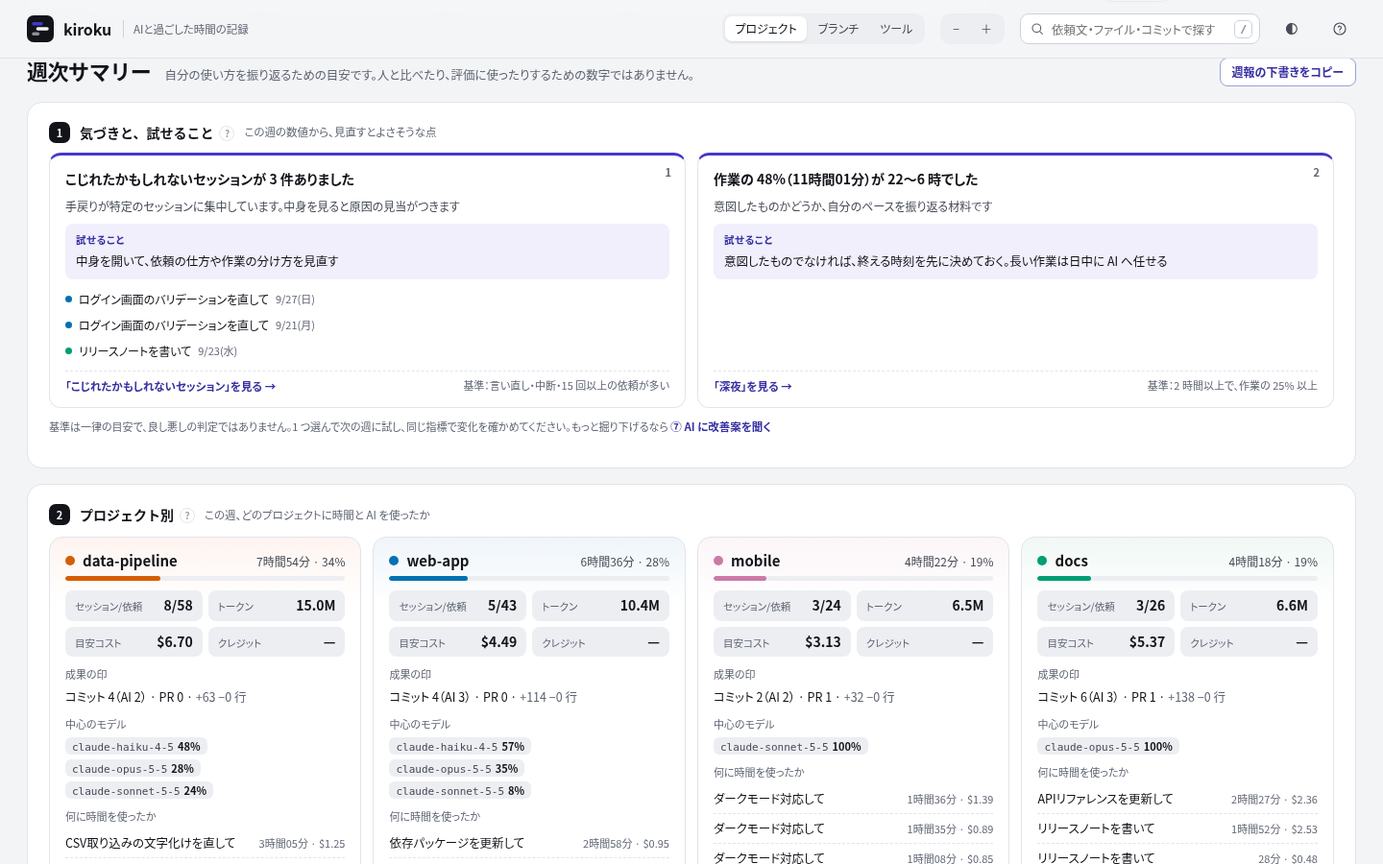
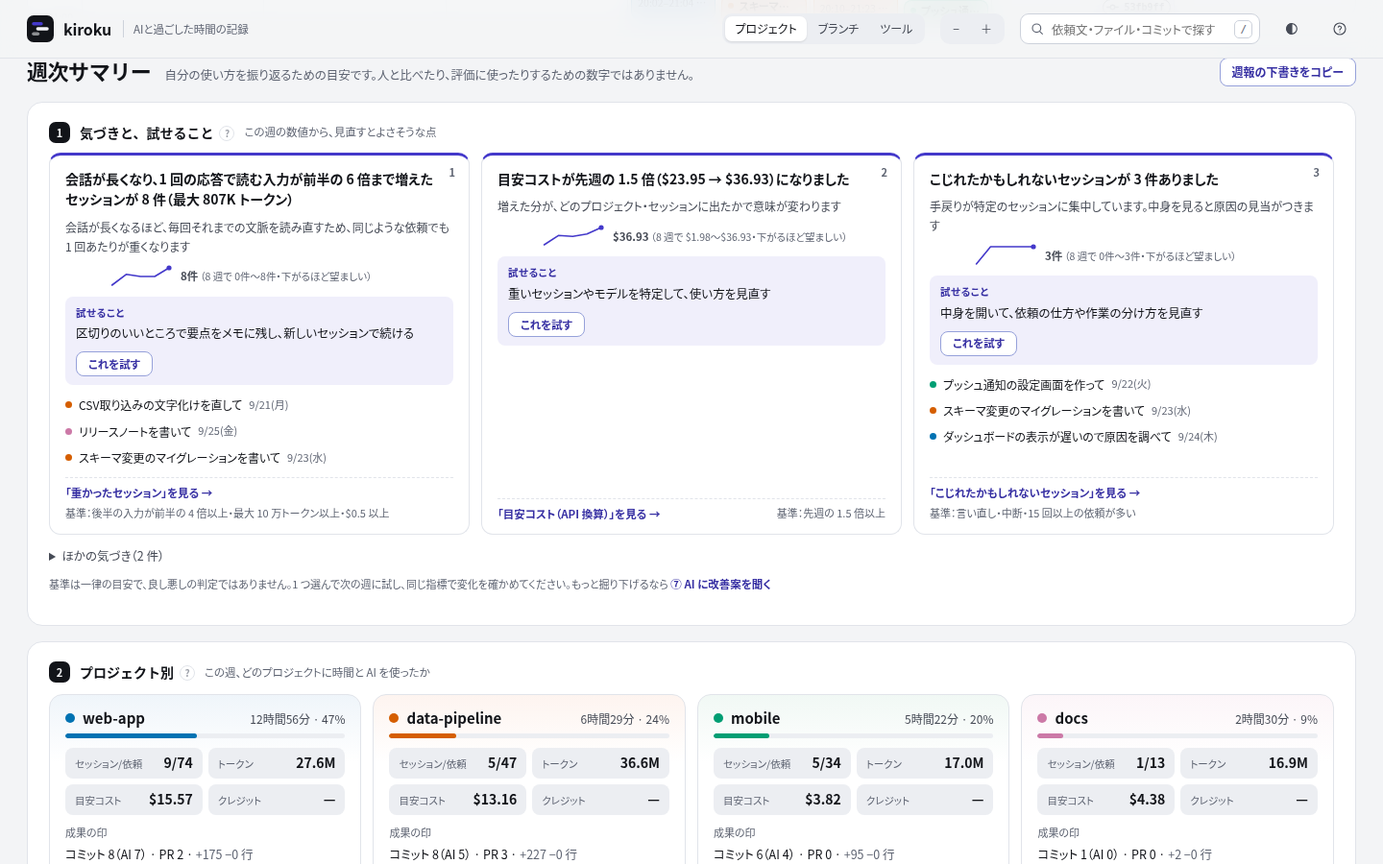
改善のループを回せるようにする：確かな記録に基づく気づき・8 週の推移・試したことの答え合わせ (#41)
* 改善のループを回せるようにする：確かな記録に基づく気づき・8 週の推移・試したことの答え合わせ

- セッションごとに、1 回の応答で読んだ入力（文脈）の前半・後半・最大を集計する（core/context.go）
- 気づきに「長くなった会話」「軽い作業での高いモデル」を追加（推定ではなく、記録されたトークンとモデルから判定）
- 気づきのカードに、その指標の 8 週（8 か月）の推移を表示
- 「これを試す」で 1 つ選ぶと、その期間の値を記録し、次の期間以降に「試す前 → 今」と変化の方向を表示（ブラウザに保存）
- 改善案プロンプトに、試していることとその推移を含める
- ダミーデータに、会話が長くなるセッションを混ぜる
- README・ガイド・スクリーンショットを更新

Claude-Session: https://claude.ai/code/session_01WXnCm54bK3Mj4QdxNoNc9j

* 気づきのカードを読みやすくし、画面を変えるときの確認項目を開発ドキュメントに加える

- 「長くなった会話」の見出しを、結論が先に来る短い文に
- 推移に、今の値と 8 週の範囲を文字でも表示（タッチ端末でも読める）。読み上げ用の要約も付ける
- 試している最中に別の気づきを選ぶときは「こちらに切り替える」と表示
- 1000px 以下では検索欄のヒントを短く（入力欄が狭いため）
- docs/development.md に「画面を変えるとき」（情報設計・言葉・UI・UX・ドキュメントの確認）を追加

Claude-Session: https://claude.ai/code/session_01WXnCm54bK3Mj4QdxNoNc9j

---------

diff --git a/internal/web/template.html b/internal/web/template.html
@@ -178,6 +178,27 @@ kbd{font:11px/1 var(--mono);padding:3px 5px;border-radius:5px;border:1px solid v
 .flink{color:var(--acc-ink);font-size:11.5px;font-weight:600}
 .flink:hover{text-decoration:underline}
 .fmore{margin-top:12px}
+.spark{display:inline-flex;align-items:center;gap:8px;color:var(--ink-3)}
+.spark svg{flex:none;overflow:visible}
+.spark polyline{fill:none;stroke:var(--acc);stroke-width:1.6;stroke-linejoin:round;stroke-linecap:round}
+.spark circle{fill:var(--acc)}
+.spark small{font-size:10.5px;line-height:1.4}
+.spark small b{color:var(--ink-2);font-size:11.5px;font-variant-numeric:tabular-nums;margin-right:2px}
+.fcard .act{position:relative}
+.fcard .ftry{align-self:flex-start;margin-top:6px;height:26px;font-size:11.5px;color:var(--acc-ink);border-color:color-mix(in oklab,var(--acc) 35%,var(--rule-2));font-weight:600}
+.fcard .trying{font-style:normal;font-size:11px;font-weight:700;color:var(--acc-ink);margin-top:4px}
+.trybar{display:flex;flex-direction:column;gap:8px;margin:10px 0 4px;padding:12px 16px;border-radius:12px;border:1px solid color-mix(in oklab,var(--acc) 35%,var(--rule));background:var(--acc-soft)}
+.trybar .th{display:flex;flex-wrap:wrap;gap:4px 10px;align-items:baseline}
+.trybar .th>b{font-size:10.5px;letter-spacing:.06em;color:var(--on-acc);background:var(--acc);padding:2px 8px;border-radius:999px}
+.trybar .tt{font-weight:650;font-size:13.5px}
+.trybar .th .muted{font-size:11.5px}
+.trybar .tb{font-size:12.5px;color:var(--ink-2);display:flex;flex-wrap:wrap;gap:4px 10px;align-items:baseline}
+.trybar .tb b{color:var(--ink);font-variant-numeric:tabular-nums}
+.trybar .tf{display:flex;justify-content:space-between;align-items:center;gap:10px;flex-wrap:wrap}
+.vd{font-size:11px;font-weight:700;padding:1px 8px;border-radius:999px}
+.vd.good{color:var(--c2);background:color-mix(in oklab,var(--c2) 14%,transparent)}
+.vd.bad{color:var(--warn);background:color-mix(in oklab,var(--warn) 12%,transparent)}
+.vd.same{color:var(--ink-2);background:var(--surface-2)}
 .fmore summary{cursor:pointer;font-size:12.5px;color:var(--ink-2)}
 .fok{font-size:13px;color:var(--ink-2);margin-top:8px}
 .sact{display:flex;flex-direction:column;gap:6px;margin-top:14px;padding:12px 14px;border-radius:10px;background:var(--acc-soft)}
@@ -816,6 +837,9 @@ function summary(){
     t.scrollIntoView({behavior: matchMedia("(prefers-reduced-motion: reduce)").matches ? "auto" : "smooth", block: "center"});
     if (t.classList.contains("hb") && t.getAttribute("aria-expanded") !== "true") t.click(); });
   const more = R.querySelector("#pmore"); if (more) more.onclick = () => { st.allProj = !st.allProj; summary(); };
+  R.querySelectorAll("[data-try]").forEach(b => b.onclick = () => { const f = findList(w, pw, unit).find(x => x.k === b.dataset.try), p = periodBack(0); if (!f) return;
+    store.set("try", {k: f.k, act: f.act, mode: st.mode, start: p.key, label: p.label, base: metricAt(f.k, p)}); toast("次の期間に、同じ指標で比べます"); summary(); });
+  const ts = R.querySelector("#trystop"); if (ts) ts.onclick = () => { store.set("try", null); summary(); };
   const ms = R.querySelector("#moreS"); if (ms) ms.ontoggle = () => { st.moreS = ms.open; };
   const rc = R.querySelector("#rptcopy"); if (rc) rc.onclick = () => copy(reportText(w, M));
   const ac = R.querySelector("#askcopy"); if (ac) ac.onclick = () => copy($("#askpre").textContent);
@@ -861,6 +885,8 @@ const HELP = {
   weekend: {n:"週末", d:"土日の作業時間", c:"週末にどれだけ作業していたか", x:"働きすぎかどうかの判定", a:"自分のペースの振り返りに使う"},
   fix: {n:"言い直し・中断のあった依頼", d:"依頼文の表現（「違う」「やり直して」など）と中断から推定した割合", c:"最初の依頼が意図どおりに伝わらなかった割合の目安", x:"推定のため誤判定がある。原因も分からない", a:"高ければ、依頼文に前提・制約・完了条件を書き足す"},
   limits: {n:"利用上限に当たった回数", d:"Claude Code の履歴に残った、利用上限（使用量の上限・レート制限）のエラーの回数と時刻。1 分以内に続いたものは 1 回", c:"どの時間帯・どの作業で上限に当たり、作業が止まったか", x:"上限までの残り。ほかのエージェントや、ブラウザ・アプリでの利用分", a:"重い作業を時間帯で分ける、軽いモデルに振り分ける、長い会話は区切って新しく始める"},
+  longctx: {n:"長くなった会話", d:"1 回の応答で読んだ入力（新しい入力とキャッシュの読み書き）が、会話の後半 4 分の 1 で前半 4 分の 1 の 4 倍以上になり、最大 10 万トークン以上になったセッション（目安コスト $0.5 以上。トークンを記録するエージェントのみ）", c:"会話を続けたことで、1 回あたりの応答が重くなったセッション", x:"会話を続けたほうがよかったかどうか（前の文脈が必要な作業もある）", a:"区切りのいいところで要点をメモに残し、新しいセッションで続ける"},
+  modelfit: {n:"軽い作業での高いモデル", d:"主に Opus 系のモデルを使い、依頼 3 件以下でファイルを編集しなかった、目安コスト $0.3 以上のセッションの合計", c:"高いモデルを使った短い作業にかかった量", x:"そのモデルが必要だったかどうか（難しい調査や設計の相談もある）", a:"調べものや相談は、まず軽いモデルで試し、足りなければ切り替える"},
   friction: {n:"こじれたかもしれないセッション", d:"言い直し・中断・15 回以上の依頼が多いセッション", c:"手戻りが集中したセッション", x:"こじれた原因", a:"中身を開いて、依頼の仕方や作業の分け方を見直す"},
   share: {n:"プロジェクトの配分", d:"プロジェクトごとの作業時間の割合", c:"時間の配分", x:"配分の妥当さ", a:"想定と違えば、優先順位を見直す"},
   rhythm: {n:"日ごと・週ごとのリズム", d:"週表示では日ごと、月表示では週ごとの作業時間（うち深夜）", c:"作業量の波と偏り", x:"波の原因", a:"特定の日に偏っていれば、作業の割り振りを見直す"},
@@ -906,6 +932,7 @@ function askPrompt(w, pw, M){
     "- 指標の定義はエージェントごとに異なります。エージェント同士を直接比較しないでください",
     "- 数値はすべて履歴から推定した目安です。データから言えないことは、推測であると明記してください",
     "- 各指標の定義と、そこから言えること・言えないことは末尾の「指標の読み方」を参照してください",
+    ...(() => { const T = store.get("try", null); return T && HELP[T.k] ? ["", "# いま試していること", `- ${T.act}（${T.label}から。指標: ${HELP[T.k].n}、試す前 ${fmtM(T.k, T.base)}、この${unit} ${fmtM(T.k, metricAt(T.k, periodBack(0)))}）`, `- 推移: ${(() => { const r = []; for (let i = 7; i >= 0; i--){ const p = periodBack(i); r.push(`${p.label} ${fmtM(T.k, metricAt(T.k, p))}`); } return r.join("、"); })()}`] : []; })(),
     "", "# kiroku が基準で拾った気づき（判定ではなく候補）",
     ...(() => { const F = findList(w, pw, unit); return F.length ? F.map(f => `- ${f.see.replace(/<[^>]+>/g, "")}（基準: ${f.rule}）`) : ["- 基準を超えた指標はありませんでした"]; })(),
     "", "# 全体",
@@ -971,6 +998,67 @@ function askPrompt(w, pw, M){
 }
 /* 期間 [ws, we) に利用上限に当たった時刻と、そのセッション */
 function limitHits(ws, we){ const H = []; DATA.forEach(s => (s.limits || []).forEach(t => { if (t >= ws && t < we) H.push({t, s}); })); return H.sort((a,b) => a.t - b.t); }
+/* 気づきの判定に使う部品（期間 [ws, we) を渡す。推移の計算でも使う） */
+const inP = (s, ws, we) => s.segs.some(([a,b]) => b > ws && a < we);
+function idleOf(ws, we){ // 目安コストが大きいのにコミットも PR もないセッション（成果の印を記録できる Claude Code のみ）
+  const xs = DATA.filter(s => s.cost >= 1 && /claude/i.test(s.source) && !(s.outputs && (s.outputs.commits || s.outputs.prs)) && inP(s, ws, we)).sort((a,b) => b.cost - a.cost);
+  return {xs, c: xs.reduce((t,s) => t + s.cost, 0)}; }
+function longCtxOf(ws, we){ // 会話が長くなり、1 回の応答で読む入力が大きく増えたセッション
+  return DATA.filter(s => inP(s, ws, we) && s.ctx && s.ctx.length === 3 && s.ctx[0] > 0 && s.ctx[1] >= s.ctx[0] * 4 && s.ctx[2] >= 1e5 && s.cost >= 0.5).sort((a,b) => b.cost - a.cost); }
+const mainModel = s => ((s.models || []).slice().sort((a,b) => b[1] - a[1])[0] || [""])[0];
+function lightOf(ws, we){ // 編集のない短いセッションで、高いモデル（Opus 系）を使ったもの
+  const xs = DATA.filter(s => inP(s, ws, we) && /opus/i.test(mainModel(s)) && s.nPrompts <= 3 && !s.nFiles && s.cost >= 0.3).sort((a,b) => b.cost - a.cost);
+  return {xs, c: xs.reduce((t,s) => t + s.cost, 0)}; }
+/* 指標の値（推移と、試していることの答え合わせ用）。low: 小さいほうが望ましい方向 */
+const pctOf = (a, b) => b ? Math.round(a * 100 / b) : null;
+const MET = {
+  limits: {f: (w, ws, we) => limitHits(ws, we).length, low: true, u: "回"},
+  longctx: {f: (w, ws, we) => longCtxOf(ws, we).length, low: true, u: "件"},
+  heavy: {f: (w, ws, we) => w.usage && w.usage.cost >= 0.01 ? pctOf(idleOf(ws, we).c, w.usage.cost) : null, low: true, u: "%"},
+  cost: {f: w => w.usage ? w.usage.cost : null, low: true, fmt: v => usd(v)},
+  costPerCommit: {f: w => w.costPerCommit, low: true, fmt: v => usd(v)},
+  modelfit: {f: (w, ws, we) => w.usage && w.usage.cost >= 0.01 ? pctOf(lightOf(ws, we).c, w.usage.cost) : null, low: true, u: "%"},
+  fix: {f: w => w.fixRate, low: true, u: "%"},
+  friction: {f: w => w.friction.length, low: true, u: "件"},
+  cache: {f: w => w.usage && w.usage.cacheHit != null ? Math.round(w.usage.cacheHit * 100) : null, low: false, u: "%"},
+  outSessions: {f: w => pctOf(w.outSessions, w.sessions), low: false, u: "%"},
+  switches: {f: w => w.switchesAvg, low: true, u: "回"},
+  focus: {f: w => w.focus.length, low: false, u: "回"},
+  wait: {f: w => w.waitP90 != null ? Math.round(w.waitP90 / 60) : null, low: true, u: "分"},
+  night: {f: w => pctOf(w.night, w.active), low: true, u: "%"},
+};
+const fmtM = (k, v) => v == null ? "—" : MET[k].fmt ? MET[k].fmt(v) : `${Math.round(v * 10) / 10}${MET[k].u || ""}`;
+function periodBack(i){ // 表示中の期間から i 個前の期間
+  if (st.mode === "month"){ const a = new Date(st.month.getFullYear(), st.month.getMonth() - i, 1), b = new Date(a.getFullYear(), a.getMonth() + 1, 1);
+    return {S: MONTHS[mkey(a)], ws: a.getTime()/1000, we: b.getTime()/1000, label: `${a.getFullYear()}/${a.getMonth()+1}`, key: mkey(a)}; }
+  const a = addDays(st.week, -7 * i);
+  return {S: WEEKS[key(a)], ws: a.getTime()/1000, we: addDays(a, 7).getTime()/1000, label: `${a.getMonth()+1}/${a.getDate()} の週`, key: key(a)};
+}
+function metricAt(k, p){ if (!MET[k] || !p.S) return null; const v = MET[k].f(p.S, p.ws, p.we); return v == null || Number.isNaN(v) ? null : v; }
+function spark(k){ // 8 期間の推移（記録のない期間は飛ばす）
+  if (!MET[k]) return "";
+  const pts = []; for (let i = 7; i >= 0; i--){ const p = periodBack(i); pts.push({v: metricAt(k, p), l: p.label}); }
+  const vs = pts.filter(p => p.v != null).map(p => p.v); if (vs.length < 2) return "";
+  const lo = Math.min(...vs), hi = Math.max(...vs), W = 112, H = 26, x = i => 4 + i * (W - 8) / 7, y = v => hi === lo ? H / 2 : H - 4 - (v - lo) / (hi - lo) * (H - 8);
+  const line = pts.map((p, i) => p.v == null ? null : `${x(i).toFixed(1)},${y(p.v).toFixed(1)}`).filter(Boolean).join(" ");
+  const txt = `${st.mode === "month" ? "8 か月" : "8 週"}の推移：${pts.map(p => `${p.l} ${fmtM(k, p.v)}`).join("、")}`;
+  return `<span class="spark" title="${esc(pts.map(p => `${p.l}: ${fmtM(k, p.v)}`).join("\n"))}"><span class="sr">${esc(txt)}</span><svg viewBox="0 0 ${W} ${H}" width="${W}" height="${H}" aria-hidden="true"><polyline points="${line}"/>${pts[7].v != null ? `<circle cx="${x(7)}" cy="${y(pts[7].v)}" r="2.6"/>` : ""}</svg><small aria-hidden="true"><b>${fmtM(k, pts[7].v)}</b>（${st.mode === "month" ? "8 か月" : "8 週"}で ${fmtM(k, lo)}〜${fmtM(k, hi)}・${MET[k].low ? "下がるほど" : "上がるほど"}望ましい）</small></span>`;
+}
+/* 試していること：気づきから 1 つ選び、その期間の値と、表示中の期間の値を比べる（ブラウザに保存） */
+function tryBar(unit){
+  const T = store.get("try", null); if (!T || !MET[T.k] || !HELP[T.k]) return "";
+  const cur = periodBack(0), name = HELP[T.k].n, head = `<b>試していること</b><span class="tt">${esc(T.act)}</span><span class="muted">（${esc(name)}・${esc(T.label)}から）</span>`;
+  let body;
+  if (T.mode !== st.mode) body = `${T.mode === "month" ? "月" : "週"}表示に切り替えると、試す前と比べられます。`;
+  else if (cur.key === T.start) body = `ここから試し始めました（${fmtM(T.k, T.base)}）。次の${unit}以降を開くと、同じ指標で比べます。`;
+  else if (cur.key < T.start) body = `試す前の期間を表示しています。`;
+  else { const now = metricAt(T.k, cur);
+    if (now == null || T.base == null) body = `この${unit}の「${esc(name)}」は記録がありません。`;
+    else { const d = now - T.base, rel = T.base ? Math.abs(d) / Math.abs(T.base) : (d ? 1 : 0), good = MET[T.k].low ? d < 0 : d > 0;
+      const v = rel < 0.1 ? ["same", "ほぼ変わらず"] : good ? ["good", "望ましい方向に変化"] : ["bad", "望ましくない方向に変化"];
+      body = `試す前 <b>${fmtM(T.k, T.base)}</b> → この${unit} <b>${fmtM(T.k, now)}</b> <span class="vd ${v[0]}">${v[1]}</span><span class="muted">1 回の差は揺れることがあります。推移で確かめてください。</span>`; } }
+  return `<div class="trybar"><div class="th">${head}</div><div class="tb">${body}</div><div class="tf">${spark(T.k)}<button class="pill" id="trystop">やめる</button></div></div>`;
+}
 /* 気づきと、試せること：指標が決まった基準を超えたものを拾う（AI は使わない。判定ではなく、確かめる候補） */
 function findList(w, pw, unit){
   const F = [], u = w.usage || {}, o = w.outputs || {}, {ws, we} = period();
@@ -982,9 +1070,13 @@ function findList(w, pw, unit){
     add("fix", w.fixRate, `依頼の ${w.fixRate}% で、言い直しや中断がありました`, "最初の依頼が伝わらないと、やり直す分だけ時間とトークンを使います", "依頼 10 件以上で 20% 以上", w.friction.map(f => f.id));
   else if (w.friction.length)
     add("friction", 18, `こじれたかもしれないセッションが ${w.friction.length} 件ありました`, "手戻りが特定のセッションに集中しています。中身を見ると原因の見当がつきます", "言い直し・中断・15 回以上の依頼が多い", w.friction.map(f => f.id));
-  // 目安コストが大きいのにコミットも PR もないセッション（成果の印を記録できる Claude Code のみ）
-  const idle = DATA.filter(s => s.cost >= 1 && /claude/i.test(s.source) && !(s.outputs && (s.outputs.commits || s.outputs.prs)) && s.segs.some(([a,b]) => b > ws && a < we)).sort((a,b) => b.cost - a.cost);
-  const idleC = idle.reduce((t,s) => t + s.cost, 0);
+  const LC = longCtxOf(ws, we);
+  if (LC.length)
+    add("longctx", 34, `会話が長くなり、1 回の応答で読む入力が前半の ${Math.round(Math.max(...LC.map(s => s.ctx[1] / s.ctx[0])))} 倍まで増えたセッションが ${LC.length} 件（最大 ${tok(Math.max(...LC.map(s => s.ctx[2])))} トークン）`, "会話が長くなるほど、毎回それまでの文脈を読み直すため、同じような依頼でも 1 回あたりが重くなります", "後半の入力が前半の 4 倍以上・最大 10 万トークン以上・$0.5 以上", LC.slice(0,3).map(s => s.id));
+  const LT = lightOf(ws, we);
+  if (u.cost >= 2 && LT.c >= Math.max(1, u.cost * 0.1))
+    add("modelfit", 24, `編集のない短いセッションで、Opus 系のモデルに ${usd(LT.c)}（目安コストの ${Math.round(LT.c*100/u.cost)}%）を使っていました`, "調べものや相談なら、軽いモデルでも足りることがあります", "依頼 3 件以下・編集なし・$0.3 以上の合計が、全体（$2 以上）の 10% 以上かつ $1 以上", LT.xs.slice(0,3).map(s => s.id));
+  const {xs: idle, c: idleC} = idleOf(ws, we);
   if (u.cost >= 2 && idleC >= u.cost * 0.4)
     add("heavy", 30 + Math.round(idleC*50/u.cost), `目安コストの ${Math.round(idleC*100/u.cost)}%（${usd(idleC)}）が、コミットも PR もないセッションでした`, "調査や相談なら問題ありません。途中で止まったのなら、理由を確かめる価値があります", "$1 以上のセッションの合計が、全体（$2 以上）の 40% 以上", idle.slice(0,3).map(s => s.id));
   if (pw && pw.usage && pw.usage.cost >= 1 && u.cost >= pw.usage.cost * 1.5)
@@ -1005,17 +1097,20 @@ function findList(w, pw, unit){
     add("night", 8, `作業の ${Math.round(w.night*100/w.active)}%（${dur(w.night)}）が 22〜6 時でした`, "意図したものかどうか、自分のペースを振り返る材料です", "2 時間以上で、作業の 25% 以上", null, "意図したものでなければ、終える時刻を先に決めておく。長い作業は日中に AI へ任せる");
   return F.sort((a,b) => b.score - a.score);
 }
+const GOTO = {longctx: "heavy", modelfit: "models"}; // 専用の指標がない気づきは、関係する指標へ
 function findPanel(w, pw, unit, ph){
-  const F = findList(w, pw, unit);
+  const F = findList(w, pw, unit), T = store.get("try", null);
   const ses = ids => ids.map(id => { const s = DATA.find(x => x.id === id); return s ? `<button class="fses" data-id="${esc(id)}" style="--c:${colorOf(keyOf(s))}"><i></i><span>${esc(s.title)}</span><small>${md(s.start)}</small></button>` : ""; }).join("");
   const card = (f, i) => `<article class="fcard">
       <div class="fno">${i+1}</div>
       <p class="see">${f.see}</p><p class="why">${esc(f.why)}</p>
-      <div class="act"><b>試せること</b><span>${esc(f.act)}</span></div>
+      ${spark(f.k)}
+      <div class="act"><b>試せること</b><span>${esc(f.act)}</span>${MET[f.k] ? (T && T.k === f.k ? '<em class="trying">試しています</em>' : `<button class="pill ftry" data-try="${f.k}"${T ? ` title="いま試している「${esc(T.act)}」をやめて、こちらに切り替えます"` : ""}>${T ? "こちらに切り替える" : "これを試す"}</button>`) : ""}</div>
       ${f.ids.length ? `<div class="fss">${ses(f.ids)}</div>` : ""}
-      <div class="ff"><button class="flink" data-goto="${f.k}">「${esc(HELP[f.k].n)}」を見る →</button><span title="この気づきを出す基準">基準：${esc(f.rule)}</span></div></article>`;
+      <div class="ff"><button class="flink" data-goto="${GOTO[f.k] || f.k}">「${esc(HELP[GOTO[f.k] || f.k].n)}」を見る →</button><span title="この気づきを出す基準">基準：${esc(f.rule)}</span></div></article>`;
   const top = F.slice(0, 3), rest = F.slice(3);
   return `<section class="panel fd">${ph(1, "気づきと、試せること", `この${unit}の数値から、見直すとよさそうな点`, "findings")}
+    ${tryBar(unit)}
     ${F.length ? `<div class="fgrid">${top.map(card).join("")}</div>
       ${rest.length ? `<details class="fmore"><summary>ほかの気づき（${rest.length} 件）</summary><div class="fgrid">${rest.map((f,i) => card(f, i+3)).join("")}</div></details>` : ""}`
       : `<p class="fok">決めた基準を超えた指標はありませんでした。下のプロジェクト別やコストと成果で、先${unit}との違いを確かめられます。</p>`}
@@ -1358,7 +1453,7 @@ function scrollToWork(){ // その週の作業が始まるころの少し前へ
 // 今週に記録がなければ、いちばん新しい記録の週から開く
 if (DATA.length && !WEEKS[key(st.week)]) st.week = mondayOf(new Date(DATA[DATA.length-1].end*1000));
 if (DATA.length && !MONTHS[mkey(st.month)]) st.month = monthOf(new Date(DATA[DATA.length-1].end*1000));
-const mq = matchMedia("(max-width:820px)"), ph = () => $("#q").placeholder = mq.matches ? "検索" : "依頼文・ファイル・コミットで探す";
+const mq = matchMedia("(max-width:1000px)"), ph = () => $("#q").placeholder = mq.matches ? "検索" : "依頼文・ファイル・コミットで探す"; // 狭い画面では入力欄も狭いので短く
 mq.addEventListener("change", () => { ph(); render(); }); ph();
 applyTheme(); render(); scrollToWork();
 

diff --git a/internal/core/session.go b/internal/core/session.go
@@ -217,6 +217,7 @@ type Session struct {
 	Waits        [][2]float64  `json:"waits"`
 	Interrupts   int           `json:"interrupts"`
 	Limits       []float64     `json:"limits"` // 利用上限に当たった時刻
+	Ctx          []float64     `json:"ctx"`    // 1 回の応答で読んだ入力（文脈）の大きさ [前半, 後半, 最大]（context.go）
 	Corrections  int           `json:"corrections"`
 	Models       [][2]any      `json:"models"`
 	Usage        UsageTotal    `json:"usage"`
@@ -310,6 +311,7 @@ func (s *Builder) Finish(gapMin int) *Session {
 		prompts = prompts[:50]
 	}
 	main := s.Usage.Events()
+	ctx := ContextGrowth(main)
 	if len(s.Reported) > 0 {
 		groups := [][]Event{main}
 		for _, a := range s.Subagents {
@@ -357,7 +359,7 @@ func (s *Builder) Finish(gapMin int) *Session {
 		ID: s.ID, Source: s.Source, Project: name, ProjectPath: project, Branch: strOrNil(s.Branch), Title: title,
 		Start: times[0], End: times[len(times)-1], Events: len(times), Segs: Segments(times, float64(gapMin*60)),
 		Prompts: prompts, NPrompts: len(s.Prompts), Tools: tools, Files: files, NFiles: nFiles, Resume: strOrNil(s.Resume),
-		Waits: s.Waits(), Interrupts: s.Interrupts, Limits: limits(s.Limits), Corrections: s.Corrections(), Models: models,
+		Waits: s.Waits(), Interrupts: s.Interrupts, Limits: limits(s.Limits), Ctx: ctx, Corrections: s.Corrections(), Models: models,
 		Usage: mainSum, Subagents: subs, Credits: Round(credits, 3), Cost: Round(cost, 4),
 		UEv: uev, CEv: s.Credits, OEv: s.Outputs, Outputs: outs, Fix: s.FixTS, CostReported: len(s.Reported) > 0, File: s.File, PRs: prs,
 		Native: AggregateNative(s.Source, s.Measures), Meas: s.Measures,

diff --git a/tools/screenshots/gen.py b/tools/screenshots/gen.py
@@ -32,13 +32,14 @@ for d in range(35, -1, -1):
         model = random.choice(models)
         t = start; lines = []
         nprompt = random.randint(2, 14)
+        grow = random.choice([0, 0, 1, 4]); step = 0  # 会話が長くなるほど文脈が増えるセッションを混ぜる
         for i in range(nprompt):
             txt = random.choice(projects[p]) if i == 0 else (random.choice(retry) if random.random()<0.08 else random.choice(follow))
             lines.append({"type":"user","timestamp":t.isoformat(),"cwd":cwd,"gitBranch":br,"sessionId":sid,"message":{"role":"user","content":txt}})
             for k in range(random.randint(1,5)):
                 t += dt.timedelta(seconds=random.randint(20,240))
                 mid = "msg_"+uuid.uuid4().hex[:10]
-                usage = {"input_tokens":random.randint(5,200),"output_tokens":random.randint(100,3000),"cache_creation_input_tokens":random.randint(500,8000),"cache_read_input_tokens":random.randint(20000,150000)}
+                usage = {"input_tokens":random.randint(5,200),"output_tokens":random.randint(100,3000),"cache_creation_input_tokens":random.randint(500,8000),"cache_read_input_tokens":random.randint(15000,40000) + step * grow * 5000}; step += 1
                 tool = random.choice(tools)
                 if i == nprompt-1 and k == 0 and random.random() < 0.6: tool = "Commit"
                 if tool == "Commit":

diff --git a/internal/core/context.go b/internal/core/context.go
@@ -1,0 +1,34 @@
+package core
+
+import "sort"
+
+// ContextGrowth は、会話が長くなるにつれて 1 回の応答で読む入力（文脈）がどれだけ大きくなったかを返す。
+// 入力 = 新しい入力 + キャッシュへの書き込み + キャッシュからの読み取り。
+// [前半 4 分の 1 の中央値, 後半 4 分の 1 の中央値, 最大]。応答が 8 回未満なら空。
+func ContextGrowth(evs []Event) []float64 {
+	var xs []float64
+	for _, e := range evs {
+		if in := e.U.In + e.U.CW + e.U.CW1h + e.U.CR; in > 0 {
+			xs = append(xs, in)
+		}
+	}
+	if len(xs) < 8 {
+		return []float64{}
+	}
+	q := len(xs) / 4
+	peak := 0.0
+	for _, x := range xs {
+		peak = max(peak, x)
+	}
+	return []float64{median(xs[:q]), median(xs[len(xs)-q:]), peak}
+}
+
+func median(xs []float64) float64 {
+	ys := append([]float64(nil), xs...)
+	sort.Float64s(ys)
+	n := len(ys)
+	if n%2 == 1 {
+		return ys[n/2]
+	}
+	return (ys[n/2-1] + ys[n/2]) / 2
+}

diff --git a/main_test.go b/main_test.go
@@ -212,7 +212,7 @@ func compare(want, got any, path string, diffs *[]string) {
 			inDay := strings.Contains(path, ".days[") && !strings.Contains(path[strings.LastIndex(path, ".days[")+1:], ".")
 			if k == "unpriced" && filepath.Base(filepath.ToSlash(path)) == "usage" || k == "native" ||
 				inDay && (k == "tokens" || k == "cost" || k == "credits") || // Go 版で足した日ごとの使用量
-				k == "projectStats" || k == "limits" || k == "outputs" || k == "file" || k == "prs" || k == "outSessions" || k == "costPerCommit" || k == "git" || inDay && k == "commits" { // Go 版で足したプロジェクト別のまとめ・成果
+				k == "projectStats" || k == "limits" || k == "ctx" || k == "outputs" || k == "file" || k == "prs" || k == "outSessions" || k == "costPerCommit" || k == "git" || inDay && k == "commits" { // Go 版で足したプロジェクト別のまとめ・成果
 				continue
 			}
 			wv, wok := w[k]

diff --git a/internal/core/context_test.go b/internal/core/context_test.go
@@ -1,0 +1,17 @@
+package core
+
+import "testing"
+
+func TestContextGrowth(t *testing.T) {
+	var evs []Event
+	for i := 0; i < 12; i++ { // 文脈が 10k から 1 回ごとに 10k ずつ増える
+		evs = append(evs, Event{U: Tokens{In: 1000, CR: float64(9000 + i*10000)}})
+	}
+	got := ContextGrowth(evs)
+	if len(got) != 3 || got[0] != 20000 || got[1] != 110000 || got[2] != 120000 {
+		t.Errorf("ContextGrowth = %v, want [20000 110000 120000]", got)
+	}
+	if got := ContextGrowth(evs[:5]); len(got) != 0 {
+		t.Errorf("応答が少ないときは空, got %v", got)
+	}
+}

diff --git a/docs/guide.md b/docs/guide.md
@@ -54,7 +54,7 @@ go install github.com/MichinaoShimizu/kiroku@latest
   - セッションの「変更したファイル」：そのセッションの間のコミットで変わったファイルなら、そのコミットでのファイルのページを開きます
   - セッションの「作った PR」：AI が作った PR（`gh pr create` や GitHub のツールの結果に出た URL）を開きます
   - セッションの「履歴ファイル」：そのセッションの元の履歴を開きます。`kiroku serve` では画面から（読み込んだセッションの履歴ファイルだけを、手元の画面にだけ返します）、`kiroku html` では `file://` で開きます。SQLite の履歴は開けないので、パスのコピーだけです
-- カレンダーの下に、週次・月次サマリーを表示します。いちばん上の ① 気づきと、試せること では、基準を超えた指標を「見えたこと・試せること・該当するセッション・基準」の形で優先度の高い順に 3 件まで示します。「〜を見る」を押すと元の指標へ移動し、説明を開きます。② プロジェクト別のカードでは、プロジェクトごとに「どのセッションに何時間、どれだけのトークン・目安コスト・クレジットを、どのモデルを中心に使い、どれが最も重かったか」と成果の印を示します。③ コストと成果では、使ったもの（作業時間・目安コスト・トークン・クレジット）と残ったもの（コミット・PR・変更した行など）を並べます。続いて ④ 時間の使い方 ⑤ AI の使い方 ⑥ 週 / 月のかたち、最後に ⑦ AI に改善案を聞く が表示されます。④ 時間の使い方では、推定を含む指標（言い直し・中断、切り替え、並列、待たせ時間）を「詳しい指標」に折りたたんでいます
+- カレンダーの下に、週次・月次サマリーを表示します。いちばん上の ① 気づきと、試せること では、基準を超えた指標を「見えたこと・試せること・該当するセッション・基準」の形で優先度の高い順に 3 件まで示します。「〜を見る」を押すと元の指標へ移動し、説明を開きます。各カードには、その指標の 8 週（月表示では 8 か月）の推移を表示します。「これを試す」を押すと、その期間の値を記録し、次の期間以降を開いたときに「試す前 → 今」の値と、望ましい方向に変わったかを表示します（記録はブラウザに保存され、1 つだけ持てます）。② プロジェクト別のカードでは、プロジェクトごとに「どのセッションに何時間、どれだけのトークン・目安コスト・クレジットを、どのモデルを中心に使い、どれが最も重かったか」と成果の印を示します。③ コストと成果では、使ったもの（作業時間・目安コスト・トークン・クレジット）と残ったもの（コミット・PR・変更した行など）を並べます。続いて ④ 時間の使い方 ⑤ AI の使い方 ⑥ 週 / 月のかたち、最後に ⑦ AI に改善案を聞く が表示されます。④ 時間の使い方では、推定を含む指標（言い直し・中断、切り替え、並列、待たせ時間）を「詳しい指標」に折りたたんでいます
 - 各指標の「?」を押すと、定義と、そこから言えること・言えないこと・打てる手を表示します
 - 「AI に改善案を聞く」には、表示中の週・月の集計をもとに、使い方の改善案を AI に聞くためのプロンプトを表示します。「プロンプトをコピー」でコピーし、お使いの AI エージェントに貼り付けて使います（kiroku 自身は AI を呼び出しません）。セッション名（依頼文の一部）とプロジェクト名を含むため、送る前に内容を確認してください
 - 検索（右上、`/`）：依頼文・タイトル・プロジェクト・ブランチに加えて、変更したファイル・PR・そのセッションの間のコミット（件名・ハッシュ・ファイル）も探します。カレンダーは一致したセッションだけを表示し、サマリーの位置に全期間の検索結果（どこに一致したかの抜粋つき）を表示します。結果を押すと、その週を開いて詳細を表示します
@@ -70,7 +70,7 @@ go install github.com/MichinaoShimizu/kiroku@latest
 
 | 指標 | 定義 |
 |---|---|
-| 気づきと、試せること | 次の基準を超えた指標を、優先度の高い順に表示します。利用上限に 1 回以上当たった／目安コスト $1 以上でコミットも PR もない Claude Code のセッションが、期間の目安コスト（$2 以上）の 40% 以上／目安コストが前の期間の 1.5 倍以上／1 コミットあたりの目安コストが前の期間の 1.5 倍以上（コミット 3 回以上）／言い直し・中断のあった依頼が 20% 以上（依頼 10 件以上）、またはこじれたかもしれないセッションがある／キャッシュから読んだ割合が 50% 未満（トークン 1M 以上）／コミットまで行ったセッションが 25% 未満（セッション 5 件以上）／1 日の切り替えが平均 5 回以上／作業 4 時間以上で集中ブロックが 0 回／待たせ時間の 90 パーセンタイルが 15 分以上（n≥10）／深夜が 2 時間以上かつ作業の 25% 以上 |
+| 気づきと、試せること | 次の基準を超えた指標を、優先度の高い順に表示します。利用上限に 1 回以上当たった／長くなった会話がある（後半の入力が前半の 4 倍以上・最大 10 万トークン以上・$0.5 以上）／軽い作業での高いモデルの合計が、目安コスト（$2 以上）の 10% 以上かつ $1 以上／目安コスト $1 以上でコミットも PR もない Claude Code のセッションが、期間の目安コスト（$2 以上）の 40% 以上／目安コストが前の期間の 1.5 倍以上／1 コミットあたりの目安コストが前の期間の 1.5 倍以上（コミット 3 回以上）／言い直し・中断のあった依頼が 20% 以上（依頼 10 件以上）、またはこじれたかもしれないセッションがある／キャッシュから読んだ割合が 50% 未満（トークン 1M 以上）／コミットまで行ったセッションが 25% 未満（セッション 5 件以上）／1 日の切り替えが平均 5 回以上／作業 4 時間以上で集中ブロックが 0 回／待たせ時間の 90 パーセンタイルが 15 分以上（n≥10）／深夜が 2 時間以上かつ作業の 25% 以上 |
 | プロジェクト別 | プロジェクトごとの作業時間と割合、セッション / 依頼の数、トークン・目安コスト・クレジット、中心のモデル（トークンの割合。トークンを記録しないエージェントは回数）、稼働時間の長いセッション上位 3 件、最も重いセッション（目安コスト、なければクレジット、なければトークンで判定）。複数のプロジェクトが同時に稼働していた時間は按分します |
 | 作業していた時間 | いずれかのセッションが稼働していた時間（重なりは 1 回として計算） |
 | AI の延べ稼働 | 並列で稼働した分も合算した時間 |
@@ -80,6 +80,8 @@ go install github.com/MichinaoShimizu/kiroku@latest
 | 待たせ時間 | AI の応答から次の依頼までの時間（30 分以内のもの）の中央値と 90 パーセンタイル |
 | 深夜・週末 | 22〜6 時と土日の作業時間 |
 | 言い直し・中断のあった依頼 | 依頼文の表現（「違う」「やり直して」など）と中断から推定した割合。依頼の数（n）を併記します |
+| 長くなった会話 | 1 回の応答で読んだ入力（新しい入力とキャッシュの読み書き）が、会話の後半 4 分の 1 で前半 4 分の 1 の 4 倍以上になり、最大 10 万トークン以上になったセッション（目安コスト $0.5 以上。応答が 8 回以上あり、トークンを記録するエージェントのみ） |
+| 軽い作業での高いモデル | 主に Opus 系のモデルを使い、依頼 3 件以下でファイルを編集しなかった、目安コスト $0.3 以上のセッションの合計 |
 | 利用上限に当たった回数 | Claude Code の履歴に残った、利用上限（使用量の上限・レート制限）のエラーの回数と時刻。1 分以内に続いたものは 1 回と数えます。カレンダーには赤い「上限」の印で表示します |
 | こじれたかもしれないセッション | 言い直し・中断・15 回以上の依頼が多いセッション |
 | 日ごと・週ごとのリズム | 週表示では日ごと、月表示では週ごとの作業時間（うち深夜） |
@@ -159,6 +161,8 @@ kiroku serve --prices my-prices.json
 | 深夜 | 時間外にどれだけ作業していたか | 働きすぎかどうかの判定 | 自分のペースの振り返りに使う |
 | 週末 | 週末にどれだけ作業していたか | 働きすぎかどうかの判定 | 自分のペースの振り返りに使う |
 | 言い直し・中断のあった依頼 | 最初の依頼が意図どおりに伝わらなかった割合の目安 | 推定のため誤判定がある。原因も分からない | 高ければ、依頼文に前提・制約・完了条件を書き足す |
+| 長くなった会話 | 会話を続けたことで、1 回あたりの応答が重くなったセッション | 会話を続けたほうがよかったかどうか（前の文脈が必要な作業もある） | 区切りのいいところで要点をメモに残し、新しいセッションで続ける |
+| 軽い作業での高いモデル | 高いモデルを使った短い作業にかかった量 | そのモデルが必要だったかどうか（難しい調査や設計の相談もある） | 調べものや相談は、まず軽いモデルで試し、足りなければ切り替える |
 | 利用上限に当たった回数 | どの時間帯・どの作業で上限に当たり、作業が止まったか | 上限までの残り。ほかのエージェントや、ブラウザ・アプリでの利用分 | 重い作業を時間帯で分ける、軽いモデルに振り分ける、長い会話は区切って新しく始める |
 | こじれたかもしれないセッション | 手戻りが集中したセッション | こじれた原因 | 中身を開いて、依頼の仕方や作業の分け方を見直す |
 | プロジェクトの配分 | 時間の配分 | 配分の妥当さ | 想定と違えば、優先順位を見直す |

diff --git a/docs/development.md b/docs/development.md
@@ -58,6 +58,16 @@ git push origin v0.1.0
 
 `v` で始まるタグを push すると、GitHub Actions（`.github/workflows/release.yml`）が 3 OS でテストしてから、GoReleaser で macOS・Linux・Windows（amd64 / arm64）向けのファイルとチェックサムを作り、Releases に載せます。`v0.2.0-rc.1` のように `-` のつくタグはプレリリースになります。
 
+## 画面を変えるとき
+
+画面（`internal/web/template.html`）を変えるときは、機能だけでなく情報設計・UI・UX も毎回見直します。
+
+- **情報設計**：利用者が「何が起きたか → なぜ気にするか → 次に何をするか → どう確かめるか」の順にたどれるか。結論を先に書き、確度の低い数値は奥にしまう
+- **言葉**：同じものは同じ用語で呼ぶ（例：「作業していた時間」）。推定の値には推定であることと基準を添え、良し悪しの判定にしない
+- **UI**：ライト・ダーク、デスクトップ（1440px）・狭い画面（1000px）・スマホ（390px）で崩れや重なりがないか
+- **UX**：マウスを載せないと読めない情報をなくす（タッチ端末向け）。キーボードで操作でき、読み上げで意味が通るか
+- **ドキュメント**：README・`docs/guide.md`（指標の表は `TestHelpMatchesGuide` で画面と照合）・スクリーンショットを同じ変更で更新する
+
 ## スクリーンショット
 
 README とガイドの画像（`docs/screenshot.png`・`docs/summary.png`）は、ダミーデータから撮り直せます。画面を変えたときは、あわせて更新してください。
